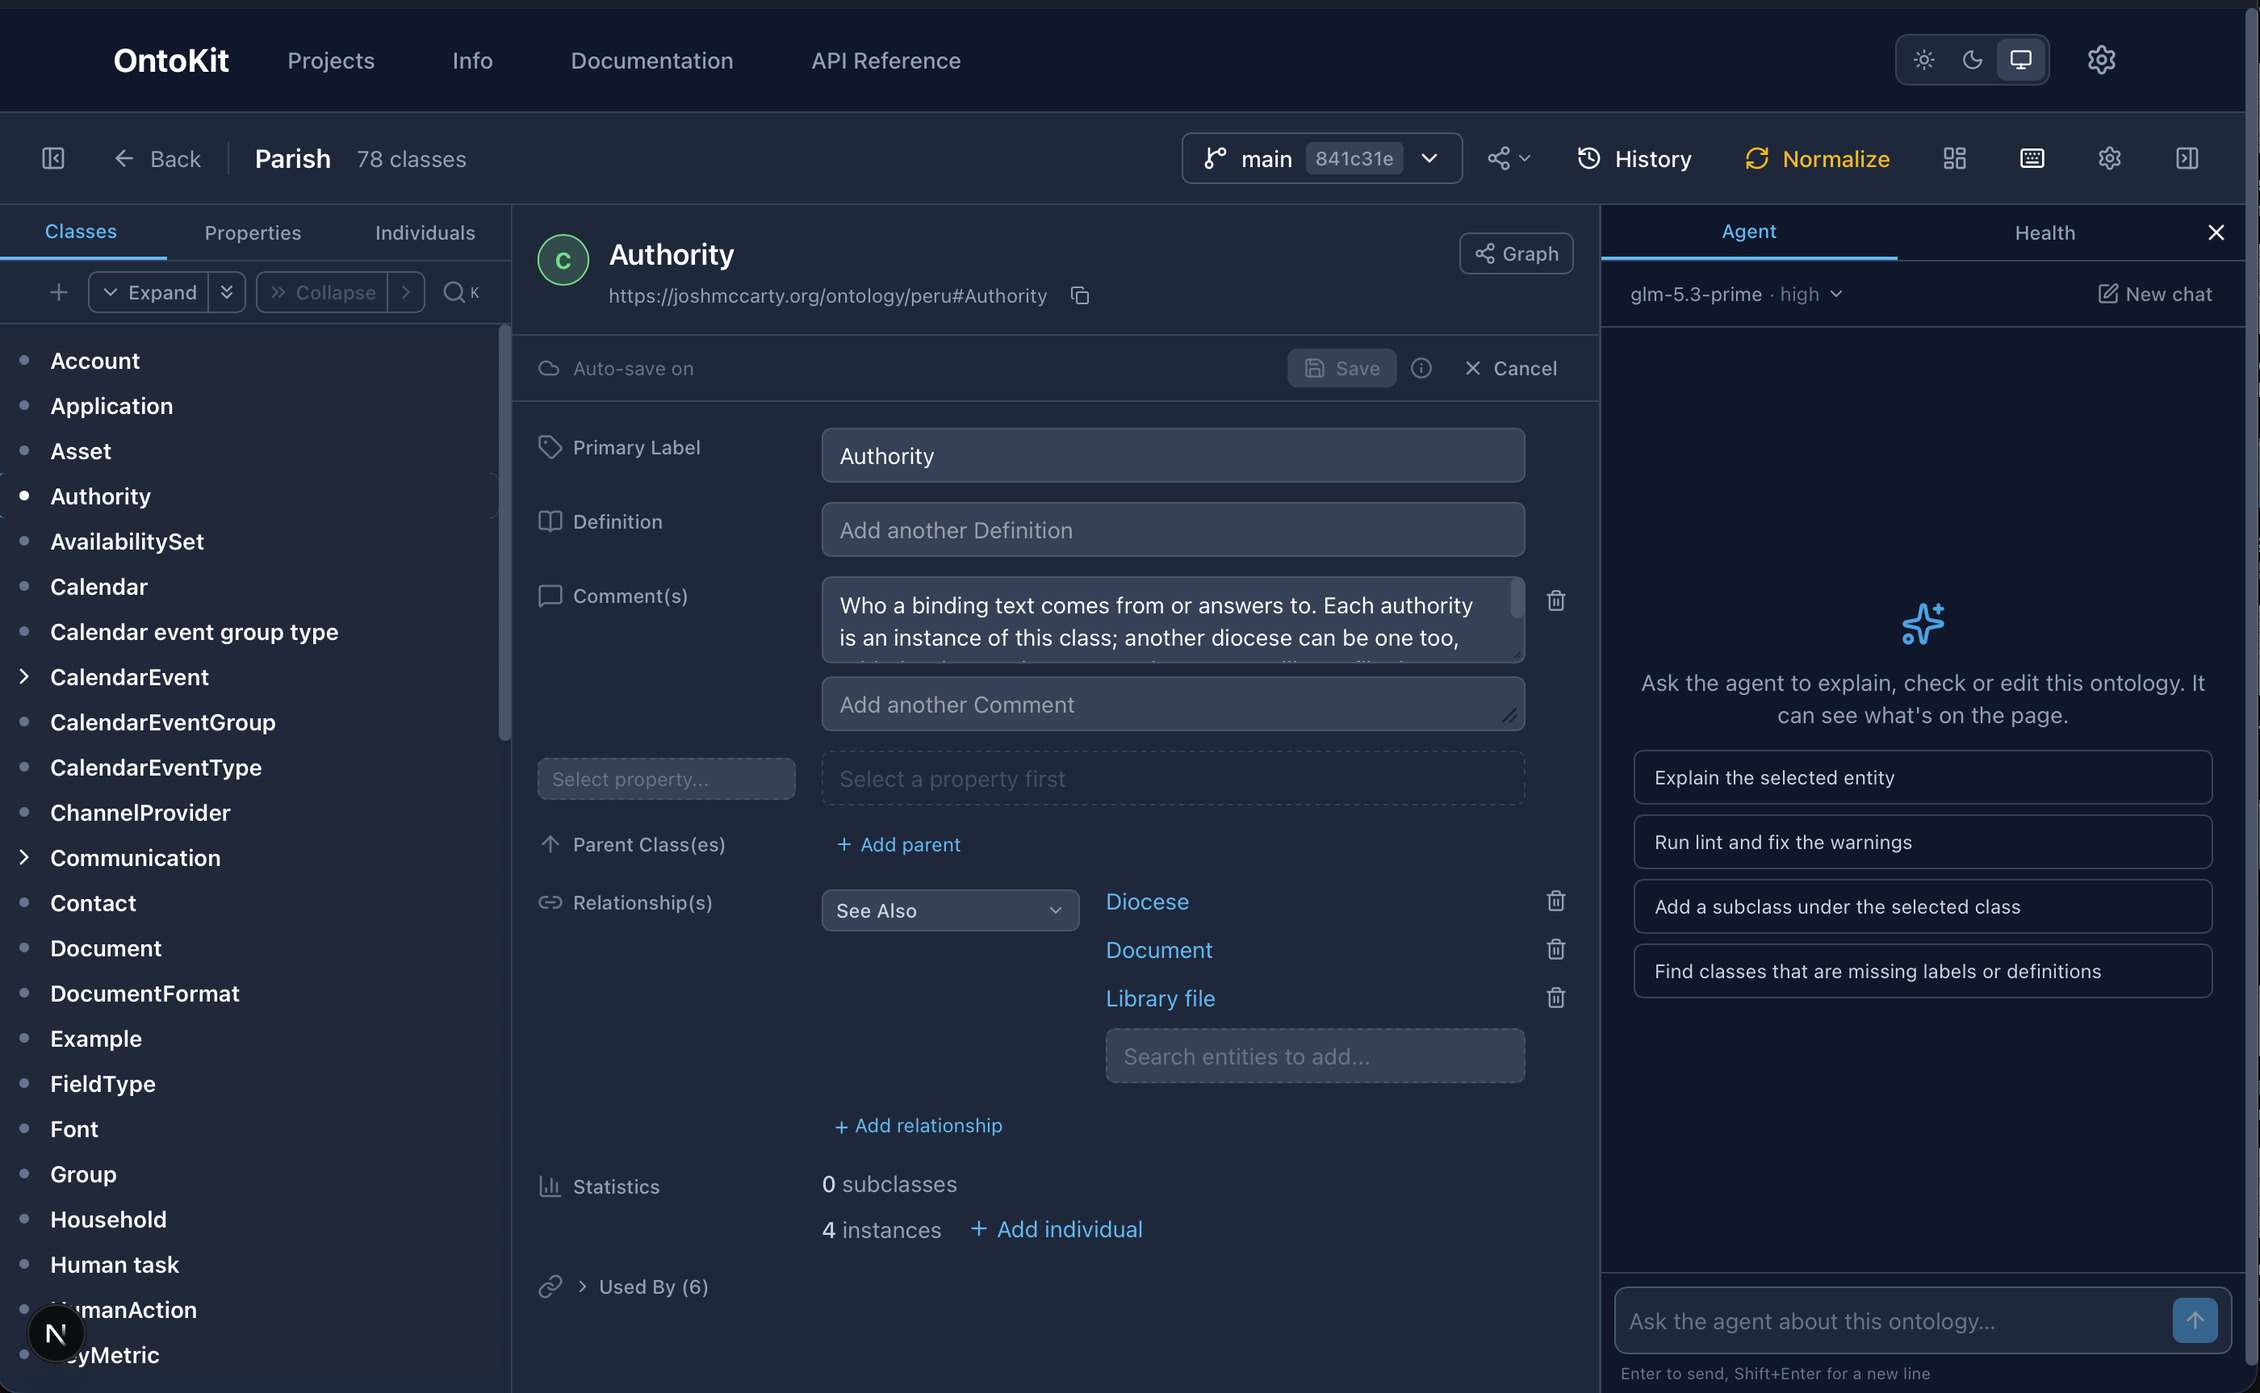
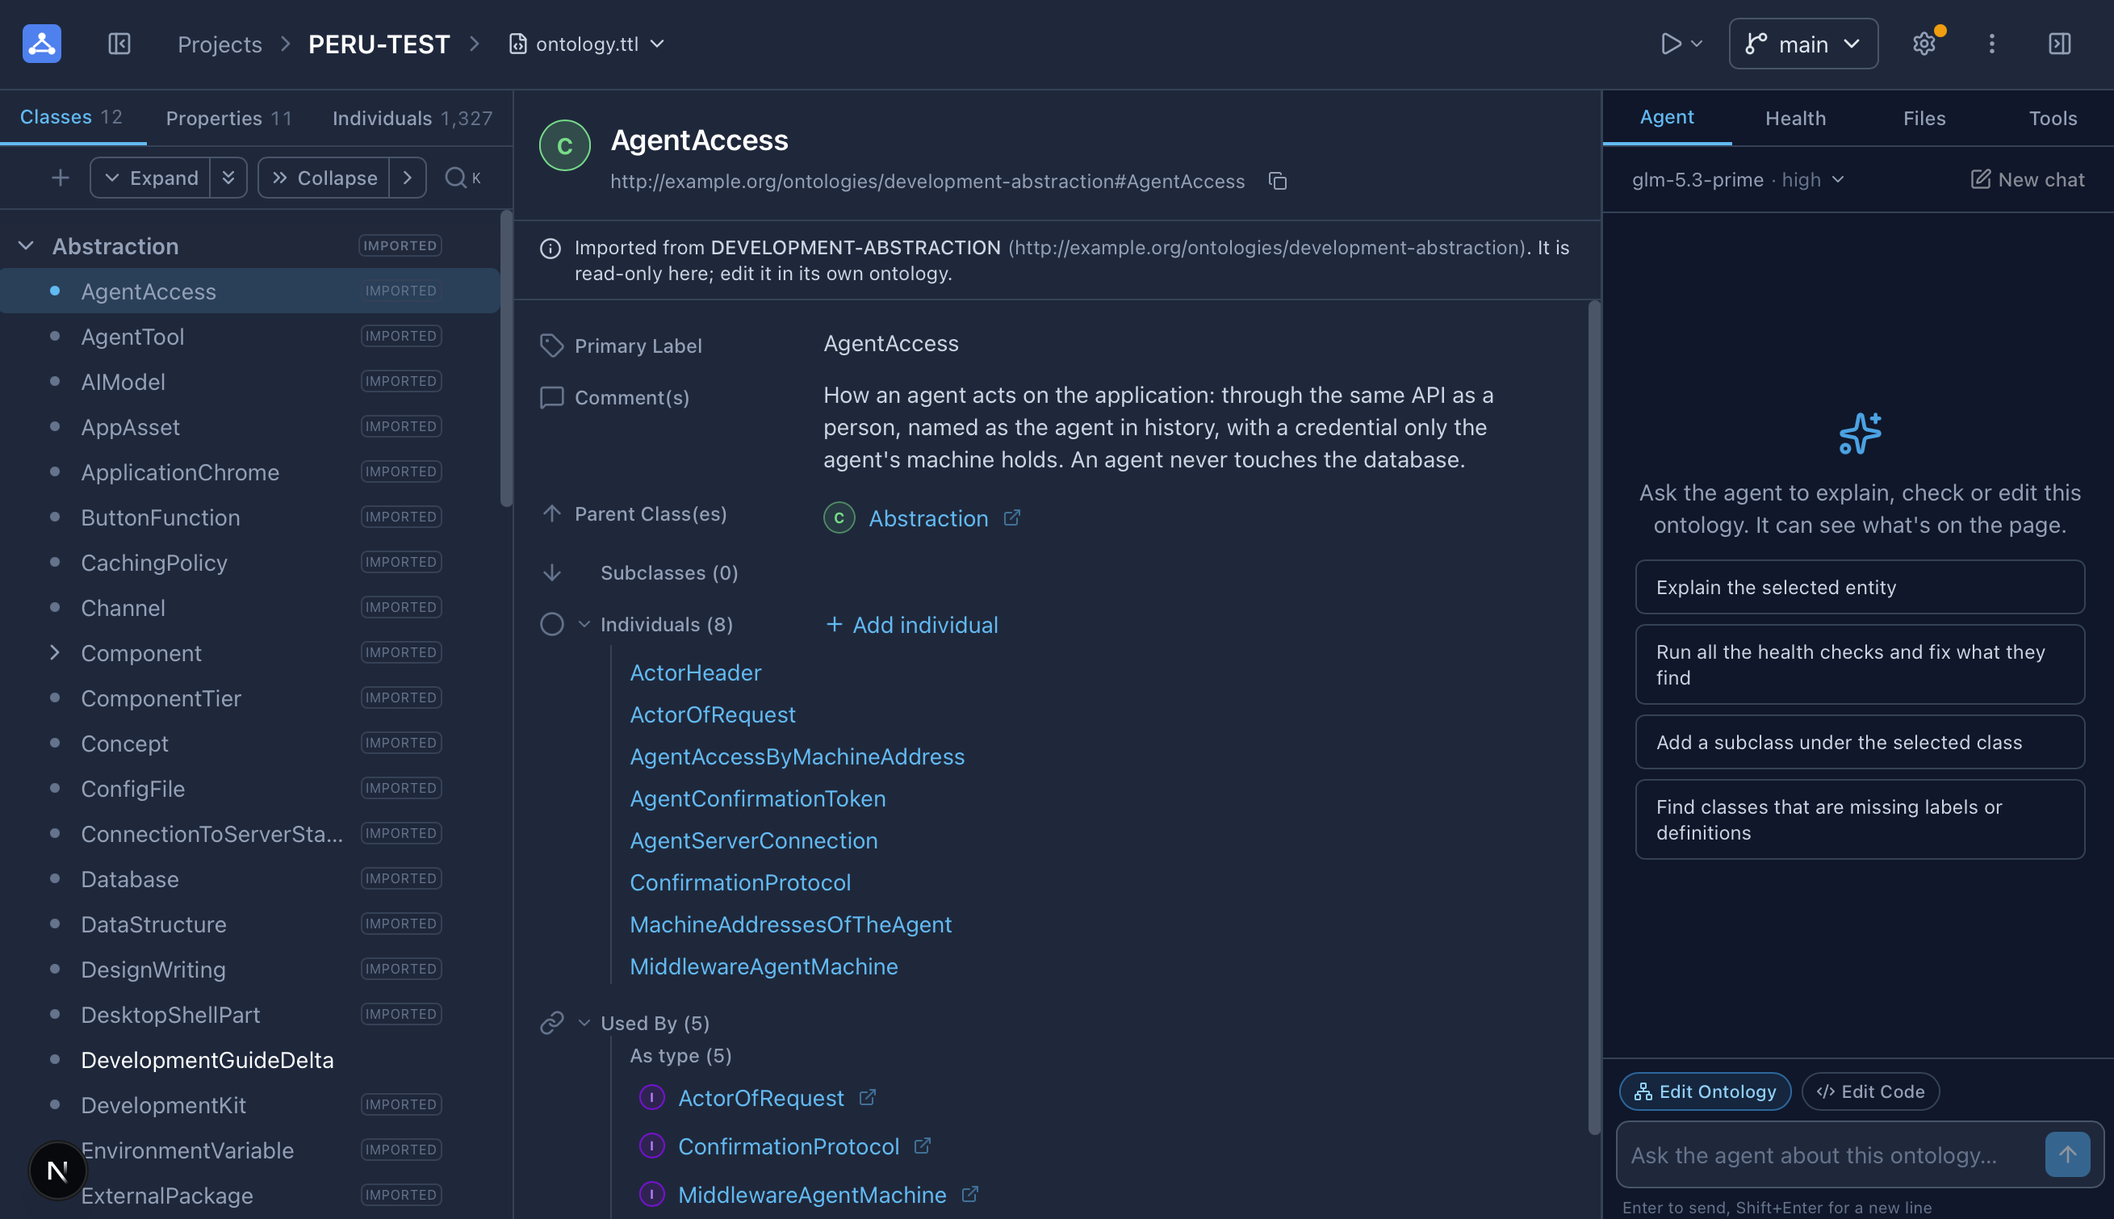
Describe the agent and code features accurately in the README
- Reframe the intro around building an ontology together with the code that uses it.
- Split features into ontology, code, and agent and API groups; add Git clone import,
  the active ontology file switcher, outside-change notices and the Tools tab.
- Rewrite the editor agent section from the actual tools: page context, ontology and
  health work, file and command tools, permissions, and setup.
- Note that code/ files are not committed automatically.
- Update moved settings (Imports, GitHub), the architecture list and the screenshot.

diff --git a/README.md b/README.md
@@ -1,47 +1,77 @@
 # OntoBuilder
 
-OntoBuilder is a local, single-user editor for OWL/RDF ontologies. It runs as one Node app: a
-Next.js frontend and an HTTP API (`/api/v1`) served by the same Next server. There is no login.
-Each project is a folder holding its ontology and its code, kept in its own git repository,
-and metadata is stored in SQLite. Everything runs on your machine except the optional editor agent, which calls
-OpenRouter (see [Editor agent](#editor-agent)).
+OntoBuilder is a local, single-user workspace for building an OWL/RDF ontology together with
+the code that uses it, with an LLM agent that can work on both. Each project is a folder in its
+own git repository: one Turtle ontology file, edited through forms and saved as git commits,
+and a `code/` folder for the project's application code, with files, terminals, a dev server
+and code analysis tools alongside the editor.
 
-![The OntoBuilder editor showing a class form, the class tree and the agent panel](docs/screenshot.png)
+It runs as one Node app: a Next.js frontend and an HTTP API (`/api/v1`) served by the same Next
+server, with metadata in SQLite. There is no login. Everything runs on your machine except the
+optional editor agent, which calls OpenRouter (see [Editor agent](#editor-agent)).
+
+![The OntoBuilder editor showing an imported class, the class tree, and the Agent tab with its model picker and Edit Ontology / Edit Code toggles](docs/screenshot.png)
 
 ## Features
 
-- **Projects.** Create an empty project or import an ontology in Turtle (`.ttl`), N3,
+### Ontology
+
+- **Projects.** Create an empty project, upload an ontology in Turtle (`.ttl`), N3,
   N-Triples (`.nt`), N-Quads (`.nq`), TriG, RDF/XML (`.owl`, `.rdf`, `.xml`) or JSON-LD
-  (`.jsonld`, `.json`). Imports are converted to Turtle before they are committed.
+  (`.jsonld`, `.json`), or clone a Git repository (HTTPS or SSH URL) with its full history.
+  Non-Turtle files are converted to Turtle before they are committed.
+- **One active ontology file.** A project edits one ontology file at a time. If the folder holds
+  several RDF files (common in a cloned repository), switch between them from the file name in
+  the editor's breadcrumb, or choose and create files under **Settings → Ontology File**. A cloned `.ttl` file is edited in place.
 - **Form-based editor.** Browse classes, properties and individuals, and add, edit and
   delete entities through forms. Every change is saved immediately as a git commit.
 - **Branches and pull requests.** Work on branches, open pull requests, review, comment and
   merge.
 - **Health checks.** Lint rules, consistency checks, duplicate detection and normalization,
-  run as background jobs, with results shown in the editor's **Health** tab.
+  run as background jobs, with results shown in the editor's **Health** tab. The same counts
+  appear in the **Agent** tab with a **Fix issues** button (see [Editor agent](#editor-agent)).
+- **Changes made outside the editor.** If the ontology file in the project folder is changed by
+  something else (a terminal, a text editor, another agent), the editor shows a notice and
+  refuses to save over it until you commit or discard the change.
 - **History and analytics.** Per-entity change history, project activity and the most
   frequently edited entities.
-- **Imports.** The **Imports** button in the editor's sub-heading adds `owl:imports` to the
-  ontology: pick another OntoBuilder project or paste any ontology IRI. Imports are followed
-  transitively (for example general principles → Node → your project), and imported classes
-  appear read-only in the class tree, where your own classes can subclass them.
-- **Code and terminals.** Each project has a `code/` folder. The **Files** tab in the right
-  sidebar browses and searches the project folder. **Space** opens a Quick View of the selected
-  file (code, text, Markdown, images, PDF, CSV, Word documents, audio and video) and closes it
-  again. Files ending in `.sh`, `.py`, `.ts` or `.js` run from the same panel, in a tabbed
-  terminal panel at the bottom of the editor that can also open interactive shells.
+- **Imports.** **Settings → Imports** adds `owl:imports` to the ontology: pick another
+  OntoBuilder project or paste any ontology IRI. Imports are followed transitively (for example
+  general principles → Node → your project), and imported classes appear read-only in the class
+  tree, where your own classes can subclass them.
+
+### Code
+
+- **The `code/` folder.** Each project has a `code/` folder for the application, scripts or
+  tooling built on the ontology. Code files are not committed automatically: commit them with
+  git in a terminal (or ask the agent to), as you would in any repository.
+- **Files and Quick View.** The **Files** tab in the right sidebar browses and searches the
+  project folder. **Space** opens a Quick View of the selected file (code, text, Markdown,
+  images, PDF, CSV, Word documents, audio and video) and closes it again.
+- **Terminals.** Files ending in `.sh`, `.py`, `.ts` or `.js` run from the Files tab, in a
+  tabbed terminal panel at the bottom of the editor that can also open interactive shells.
 - **Dev server and View in Browser.** The run menu in the sub-heading starts and stops a dev
   server command for the project, and **View in Browser** opens the URL it reports.
-- **GitHub.** Link a project to a GitHub (or other git) remote, then fetch, pull and push, or
-  create the repository with the `gh` CLI. Sign-in uses your existing git credentials, SSH keys
-  or `gh auth login`; OntoBuilder stores no tokens.
+- **Code tools.** The **Tools** tab in the right sidebar analyzes the JavaScript and TypeScript
+  in `code/` statically, with the TypeScript compiler, so the dev server doesn't need to be
+  running:
+  - **Component tree:** which React components render which, resolved through imports, barrel
+    files and `tsconfig`/`jsconfig` paths.
+  - **Orphans:** files, exports, tests and scripts that nothing reaches from the project's
+    entry points (Next.js `app/` and `pages/`, `package.json`, `index.html` and so on).
+- **GitHub.** Under **Settings → GitHub**, link a project to a GitHub (or other git) remote,
+  then fetch, pull and push, or create the repository with the `gh` CLI. Sign-in uses your
+  existing git credentials, SSH keys or `gh auth login`; OntoBuilder stores no tokens.
+
+### Agent and API
 - **Run as prompt, with approval.** The ▶ button next to any text value puts that text in the
   agent's message box (it is not sent until you send it). A green dot means the text was
   approved: it reached the default branch through a merged pull request with an approving
   review. Otherwise OntoBuilder asks before using it. This lets a team agree on a prompt, as part of
   the ontology, before anyone runs it.
-- **Editor agent.** An optional LLM chat in the editor that can read and edit the open project
-  (see [Editor agent](#editor-agent)).
+- **Editor agent.** An optional LLM chat in the editor that works on the open project: the
+  ontology, its branches and pull requests, and, when you allow it, the code in the project
+  folder (see [Editor agent](#editor-agent)).
 - **Documented API.** Every operation is described in an OpenAPI 3.1 document served at
   `/api/v1/openapi.json` and rendered at `/api-docs`.
 
@@ -108,8 +138,10 @@ somewhere else.
   comments, lint runs, issues and per-project lint configs, quality results, normalization
   runs, entity change events, background jobs, user and agent settings)
 - `data/projects/<folder>/`: one folder per project, named after the project when it is
-  created. It is a normal git repository: `ontology.ttl` (Turtle) and a `code/` folder for the
-  project's code. Each branch is a git branch, and each save in the editor is a commit.
+  created. It is a normal git repository: `ontology.ttl` (Turtle, or the active ontology file
+  of a cloned repository) and a `code/` folder for the project's code. Each branch is a git
+  branch, and each save in the editor is a commit. Files under `code/` are committed only when
+  you (or the agent, with Edit Code on) run git.
   Edits to the checked-out branch are written to the folder too. If `ontology.ttl` has
   uncommitted changes there, the editor refuses to save over them until you commit or
   discard them.
@@ -122,33 +154,79 @@ To reset everything, stop the server and delete `data/`.
 
 ## Editor agent
 
-The **Agent** tab in the editor's right sidebar is a chat with an LLM that can read and edit the
-open project. It can search and inspect entities, create, update and delete them, edit the
-Turtle source directly, run lint, consistency and duplicate checks and fix what they find, and
-work with branches and pull requests. Each change is a normal commit on the current branch.
-It can also read the files in the project folder and, when allowed, write code under `code/`
-and run shell commands there. The agent sends ontology content, and any files it reads, to
-OpenRouter.
+The **Agent** tab in the editor's right sidebar is a chat with an LLM, run through
+[OpenRouter](https://openrouter.ai), that works on the open project and branch through a fixed
+set of tools. It cannot reach other projects except the ones this project imports.
+
+### What it sees
+
+Each message carries a short description of what you are looking at: the page, the selected
+entity, the active ontology file and the current health counts. So "explain this class" or "add
+a subclass here" refer to the entity selected in the editor. The tab also offers starter
+prompts, such as explaining the selected entity or running the health checks and fixing what
+they find.
+
+### Ontology work (Edit Ontology)
+
+- **Read and search:** the class tree, entities and their references, the Turtle source, the
+  revision history and diffs.
+- **Edit:** create, update and delete classes, properties and individuals, or edit the Turtle
+  source directly for constructs the forms can't express (restrictions, prefixes, the ontology
+  header). Each change is a normal commit on the current branch with its own message, and the
+  editor refreshes as the agent works, keeping your unsaved form edits.
+- **Show:** after a change, it selects the entity in the editor so you can see the result.
+- **Health:** run lint, consistency and duplicate checks, read the full report, fix the issues
+  and re-run the checks to confirm. **Fix issues** in the Agent tab's health strip puts that
+  request in the message box for you to send.
+- **Branches and pull requests:** create and switch branches, and open, comment on, merge and
+  close pull requests.
+- **Project:** update project settings, list the RDF files in the folder, switch or create the
+  active ontology file, and commit changes made to the ontology file outside the editor.
+- **Imported ontologies:** open them read-only to look things up.
+
+It asks before large or destructive changes (bulk deletes, replacing the whole source, merging,
+normalizing) unless you clearly asked for them.
+
+### Code work (Edit Code)
+
+- **Read** any file in the project folder (`list_files`, `read_file`). This is always allowed.
+- **Write and delete** files, putting new code under `code/`.
+- **Run commands** with `bash -lc` in the project folder or a subfolder, for example to install
+  packages, run tests or scripts, or commit code with git. Commands time out after 60 s by
+  default (at most 300 s) and return the exit code and the last 20 KB of output.
+
+The ontology file is never changed through these tools, only through the ontology tools, so
+every ontology change stays a reviewed, structured commit. Code files the agent writes are not
+committed automatically. The agent's commands do not see `OPENROUTER_API_KEY` in their
+environment, but they otherwise run as your user and can reach anything you can.
+
+### Permissions
 
 Two toggles above the message box control what the agent may change:
 
-- **Edit Ontology** (on by default): changes to the ontology, branches, pull requests and
-  project settings.
+- **Edit Ontology** (on by default): the ontology, branches, pull requests and project settings.
 - **Edit Code** (off by default): writing and deleting files in the project folder and running
-  commands with `bash -lc` there (60 s timeout by default, at most 300 s).
+  commands.
 
-With both off the agent is read-only. The agent can open imported ontologies to read them,
-but not change them. The choice is remembered in the browser and sent with
-every message. The server enforces it: tools that aren't allowed are hidden from the model and
-refused if it calls them anyway, and the agent is told which toggle to ask you to turn on.
-`ontology.ttl` is changed only through the ontology tools, never as a plain file. Note that a
-command run with Edit Code on runs as your user and can reach anything you can.
+With both off the agent is read-only: it can still read, search, explain and run checks. The
+choice is remembered in the browser and sent with every message, and the server enforces it:
+tools that aren't allowed are hidden from the model and refused if it calls them anyway. When
+you ask for something that is turned off, the agent says which toggle to turn on instead of
+working around it.
 
-**Run as prompt** elsewhere in the editor puts text in the agent's message box without sending
-it, with a "From:" chip naming its source.
+### Run as prompt
 
-To enable it, add `OPENROUTER_API_KEY=sk-or-...` to `.env.local` in the project root. Choose
-the model, reasoning effort and custom instructions under **Settings → Agent**.
+The ▶ button next to any text value in the ontology puts that text in the agent's message box
+without sending it, with a "From:" chip naming its source. A green dot means the text was
+approved through a merged, reviewed pull request (see [Features](#features)).
+
+### Setup
+
+Add `OPENROUTER_API_KEY=sk-or-...` to `.env.local` in the project root and restart the server.
+Pick the model and reasoning effort from the menu at the top of the Agent tab or under
+**Settings → Agent**, where you can also add custom instructions. **New chat** starts a fresh
+conversation. The agent sends ontology content, page context and any files it reads to
+OpenRouter and the model provider you choose.
 
 ## Architecture
 
@@ -170,16 +248,22 @@ app/api/v1/[[...path]]/route.ts               forwards every /api/v1/* request t
 server/app.ts                                 Hono app (basePath /api/v1), error handler, /health, /openapi.json
 server/http.ts                                shared request and response helpers
 server/routes/<domain>.ts                     projects, ontology, pullRequests, lint, quality,
-                                              normalization, analytics, userSettings, agent
+                                              normalization, analytics, userSettings, agent,
+                                              imports, github, workspace, prompts, tools
 server/openapi/                               OpenAPI 3.1 spec built from the Hono route table
                                               (summaries, parameters and schemas per operation)
 server/agent/                                 editor agent: chat loop (OpenRouter via the openai SDK),
-                                              tools, system prompt, settings, prefixed-name handling
+                                              ontology tools (tools.ts), file and command tools
+                                              (codeTools.ts), permissions, system prompt, settings
 server/schema/*.sql                           SQLite schema, applied at startup (idempotent)
 server/db.ts                                  SQLite access helpers
 server/git.ts                                 repository helper using the git CLI; keeps the project folder
                                               in step with commits to the checked-out branch
 server/workspace.ts                           project folders: naming, lookup, migration from bare repos
+server/gitImport.ts                           new projects cloned from a git repository
+server/ontologyFiles.ts                       the RDF files in a folder and which one is the active ontology
+server/ontologyLocalChanges.ts                ontology file changes made outside the editor
+server/tools/                                 static analysis of code/: component tree, orphans
 server/localOnly.ts                           Host and Origin checks for the API
 server/workspaceFiles.ts                      safe file access inside a project folder
 server/terminals.ts  devServer.ts             terminal sessions (node-pty) and the dev server
